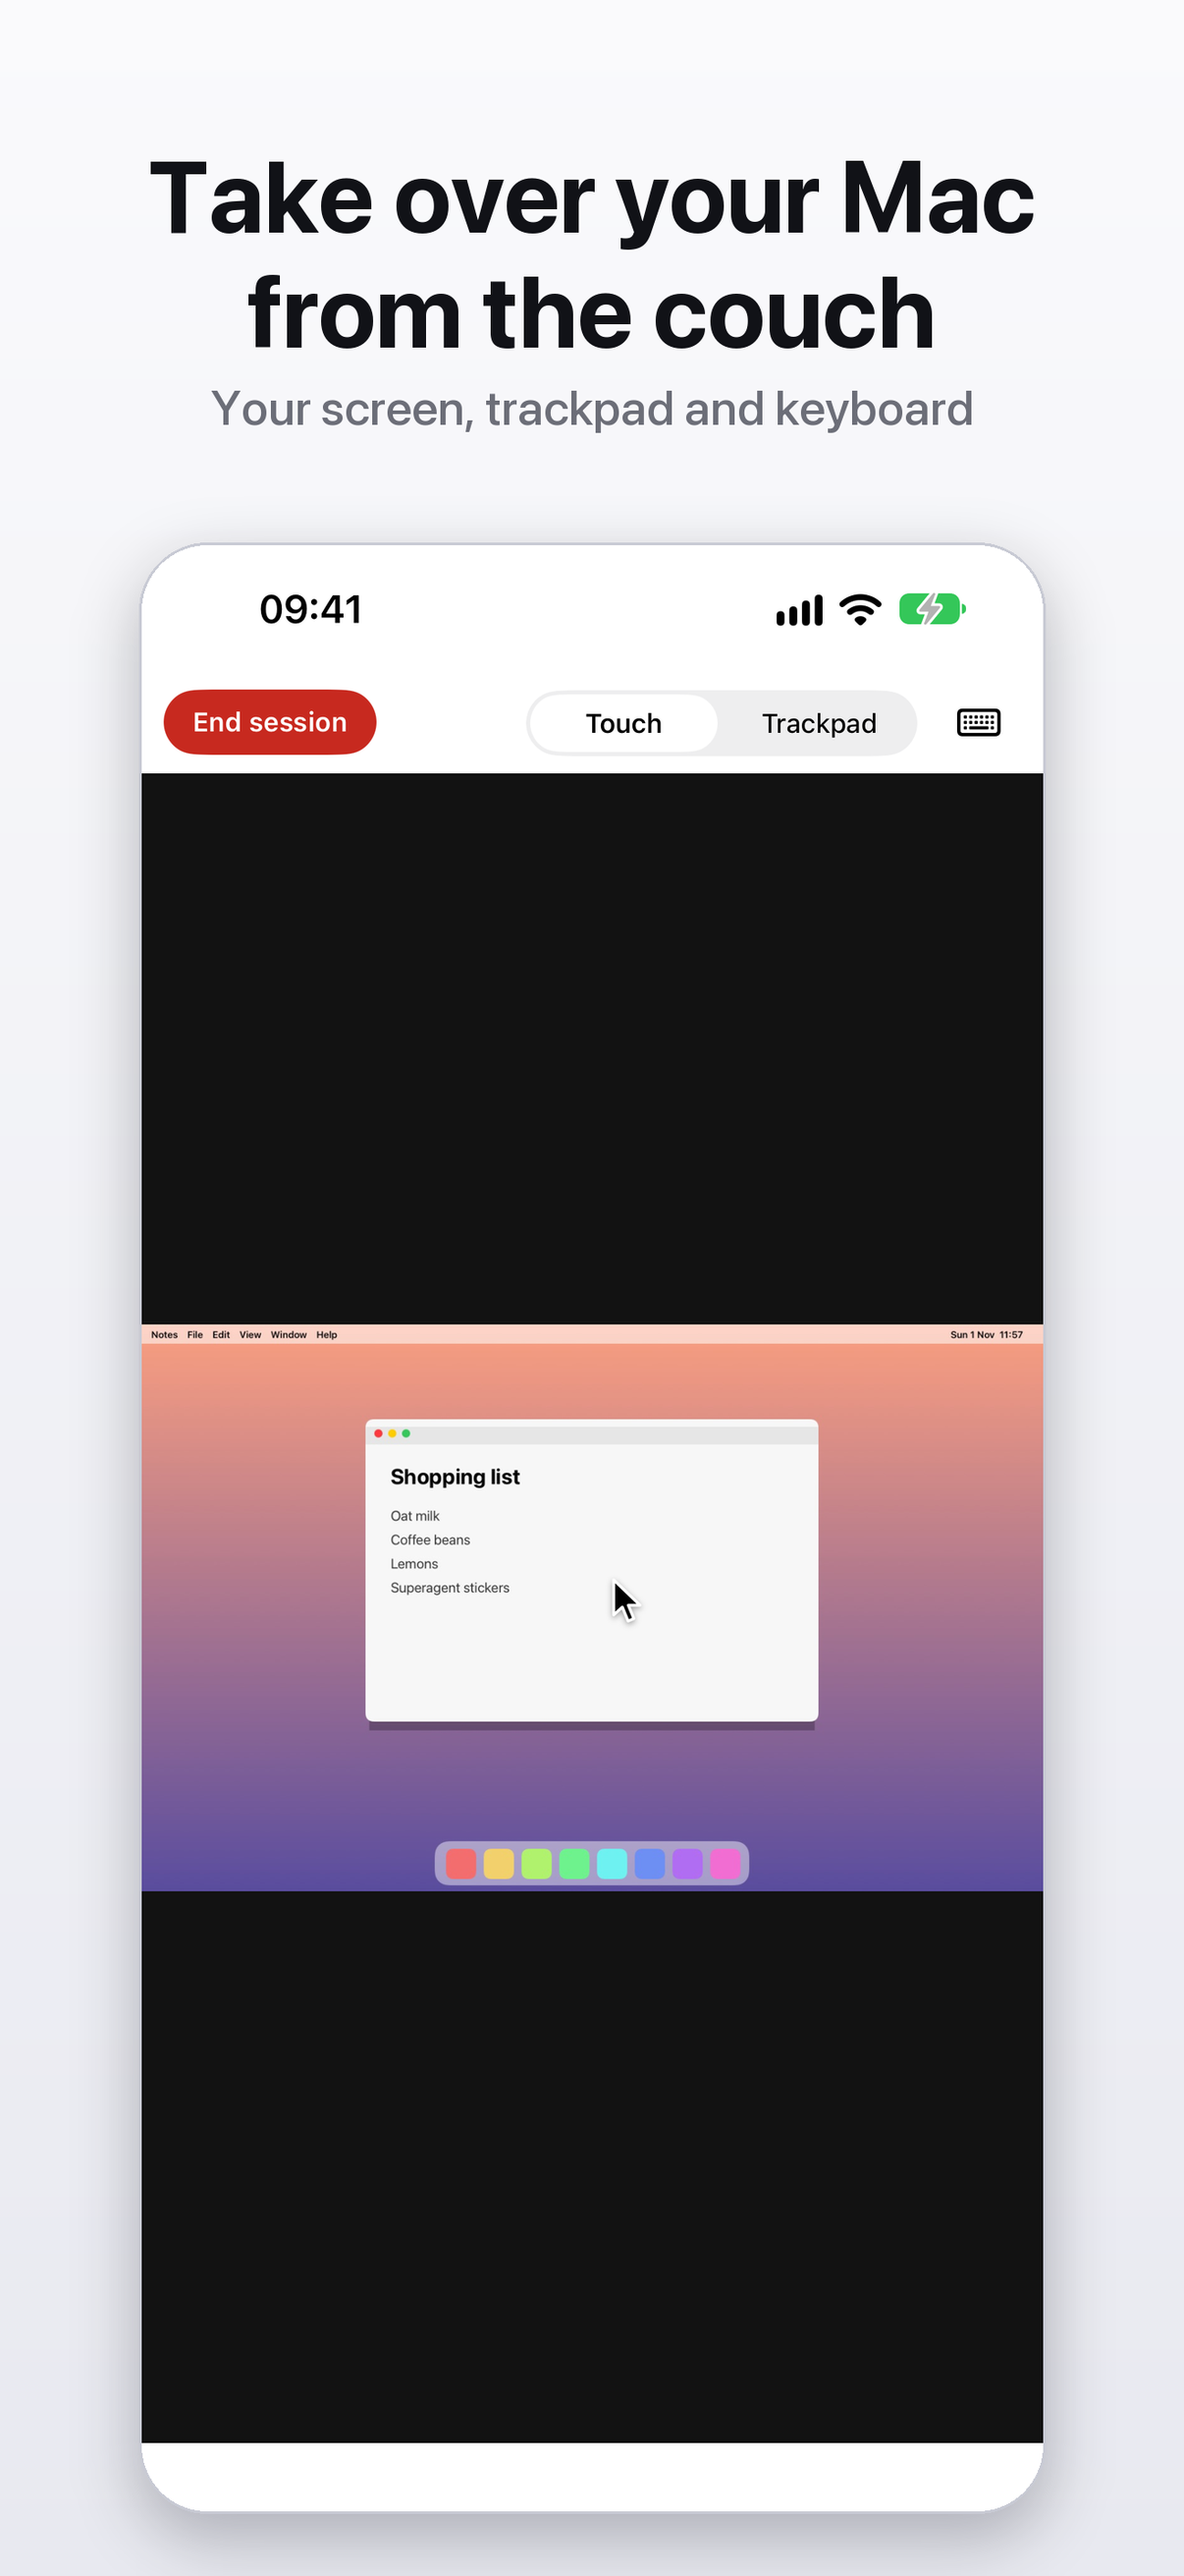
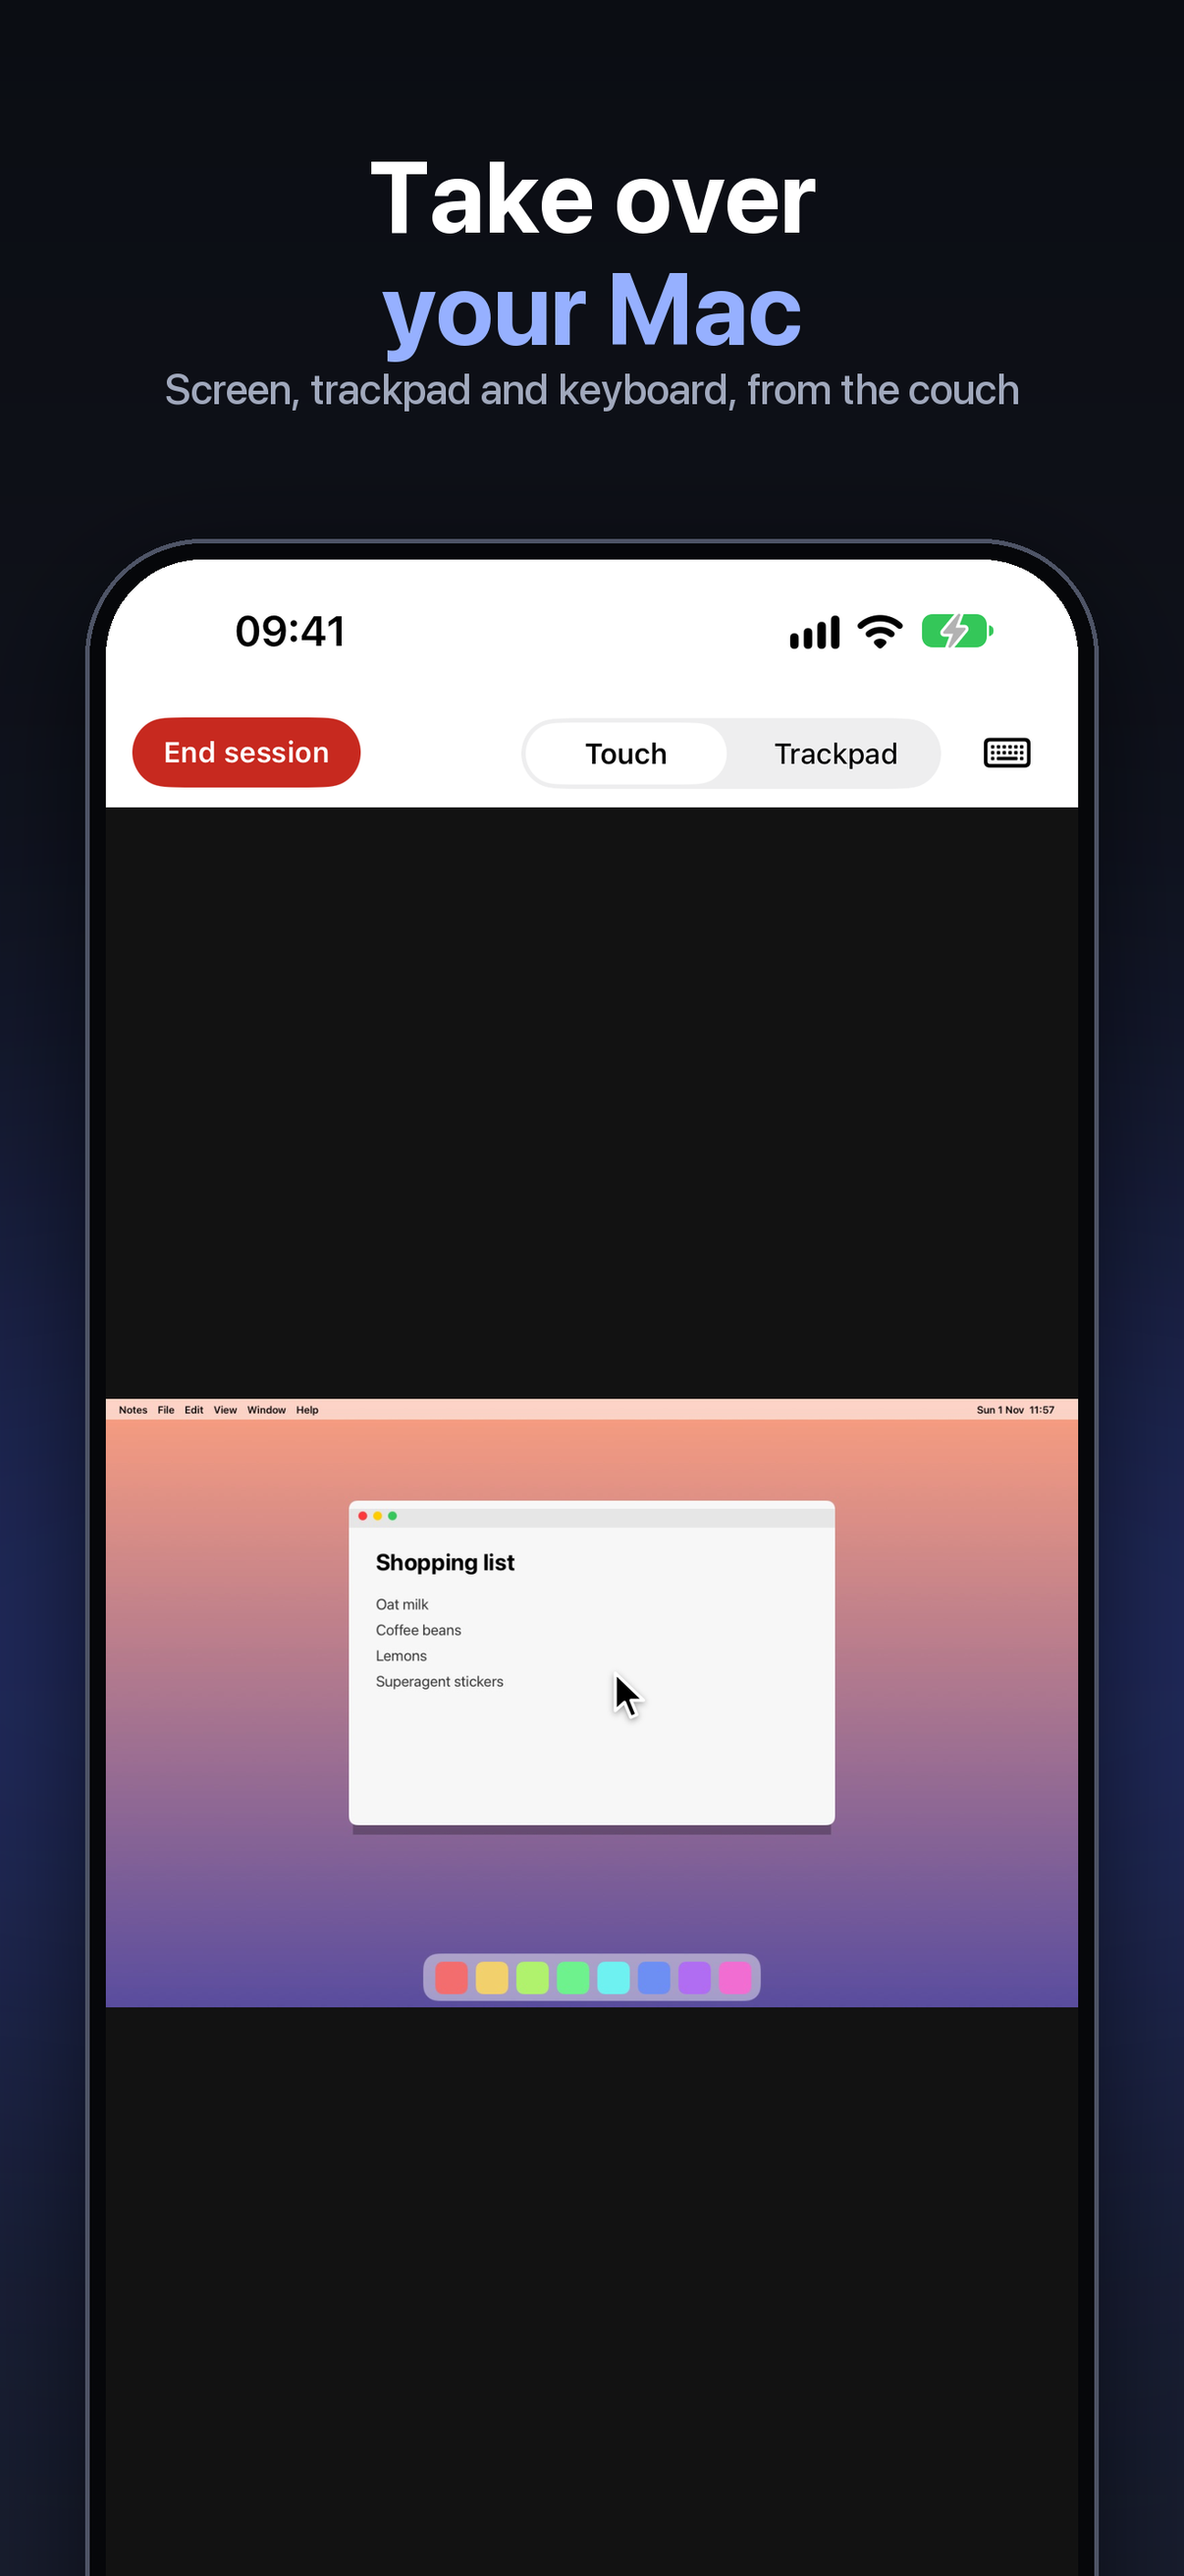
App Store artwork: dark, benefit-led screenshots, header and search-results assets

diff --git a/docs/appstore/make-screenshots.py b/docs/appstore/make-screenshots.py
@@ -1,97 +1,54 @@
 #!/usr/bin/env python3
 """
 Turn the raw simulator screenshots in screenshots/{iphone,ipad} into the App Store
-set in screenshots/store/: a headline above the screen, on a soft background.
+set in screenshots/store/: a benefit headline above a framed screen, on dark.
 
   iPhone 6.9"   1320 x 2868   (iPhone 17 Pro Max)
   iPhone 6.3"   1206 x 2622   (the same images scaled: the slot App Store Connect asks for first)
   iPad 13"      2064 x 2752   (iPad Pro 13")
 
-Run from this folder:  python3 make-screenshots.py
-The raw captures come from the simulator with the demo Mac (launch arguments in
-README.md, "Store screenshots").
+The first three are what people see in search results, so they carry the story:
+what it is, the day, and the one tap that makes it safe. Run from this folder:
+  python3 make-screenshots.py
 """
 from pathlib import Path
-from PIL import Image, ImageDraw, ImageFilter, ImageFont
+from PIL import Image
+from store_style import background, headline, paste_phone
 
 HERE = Path(__file__).parent
 RAW = HERE / "screenshots"
 OUT = RAW / "store"
-SF = "/System/Library/Fonts/SFNS.ttf"
 
 
-def font(size: int, weight: str = "Bold") -> ImageFont.FreeTypeFont:
-    f = ImageFont.truetype(SF, size)
-    f.set_variation_by_name(weight)
-    return f
-
-
-def background(w: int, h: int) -> Image.Image:
-    top, bottom = (250, 250, 252), (232, 233, 240)
-    img = Image.new("RGB", (w, h), top)
-    px = ImageDraw.Draw(img)
-    for y in range(h):
-        t = y / (h - 1)
-        px.line([(0, y), (w, y)], fill=tuple(round(top[i] + (bottom[i] - top[i]) * t) for i in range(3)))
-    return img
-
-
-def rounded(img: Image.Image, radius: int) -> Image.Image:
-    mask = Image.new("L", img.size, 0)
-    ImageDraw.Draw(mask).rounded_rectangle([0, 0, img.width - 1, img.height - 1], radius, fill=255)
-    out = img.convert("RGBA")
-    out.putalpha(mask)
-    return out
-
-
-def compose(raw: Path, title: str, sub: str, canvas: tuple[int, int], shot_w: int, name: str) -> None:
+def compose(raw, title, sub, canvas, phone_w, name, title_size, top_pad, phone_top):
     w, h = canvas
-    img = background(w, h)
-    d = ImageDraw.Draw(img)
-    scale = w / 1320
-    big, small = font(round(112 * scale)), font(round(54 * scale), "Medium")
-    y = round(150 * scale)
-    for line in title.split("\n"):
-        tw = d.textlength(line, font=big)
-        d.text(((w - tw) / 2, y), line, font=big, fill=(17, 18, 23))
-        y += round(128 * scale)
-    if sub:
-        tw = d.textlength(sub, font=small)
-        d.text(((w - tw) / 2, y + round(14 * scale)), sub, font=small, fill=(108, 110, 120))
-    shot = Image.open(raw).convert("RGB")
-    sh = round(shot.height * shot_w / shot.width)
-    shot = shot.resize((shot_w, sh), Image.LANCZOS)
-    radius = round(shot_w * 0.075)
-    x, top = (w - shot_w) // 2, h - sh - round(70 * scale)
-    shadow = Image.new("RGBA", (w, h), (0, 0, 0, 0))
-    ImageDraw.Draw(shadow).rounded_rectangle([x, top + 26, x + shot_w, top + sh + 26], radius, fill=(20, 22, 40, 70))
-    img = Image.alpha_composite(img.convert("RGBA"), shadow.filter(ImageFilter.GaussianBlur(34)))
-    card = rounded(shot, radius)
-    img.alpha_composite(card, (x, top))
-    ImageDraw.Draw(img).rounded_rectangle([x, top, x + shot_w, top + sh], radius, outline=(200, 202, 212, 255), width=3)
+    img = background(w, h, glow_at=(w // 2, phone_top + round(phone_w * 1.1)), glow_r=round(w * 0.62))
+    headline(img, title, sub, top_pad, title_size)
+    # The phone runs off the bottom edge: bigger on screen, and it reads as a real device in hand.
+    paste_phone(img, RAW / raw, (w - phone_w) // 2, phone_top, phone_w)
     OUT.mkdir(parents=True, exist_ok=True)
     img.convert("RGB").save(OUT / name, optimize=True)
 
 
 IPHONE = [
-    ("iphone/d-01-today.png", "Your whole day,\non one screen", "Calendar, to-dos and agents together", "iphone-1-today.png"),
-    ("iphone/f-chat.png", "Follow your agent\nfrom anywhere", "See every step, answer its questions", "iphone-2-chat.png"),
-    ("iphone/g-approval.png", "Approve what it asks,\nor say no", "Commands wait for your yes", "iphone-3-approve.png"),
-    ("iphone/f-chat-page.png", "See the page\nit is working on", "The Mac's browser, floating over the chat", "iphone-4-page.png"),
-    ("iphone/e-remote-active.png", "Take over your Mac\nfrom the couch", "Your screen, trackpad and keyboard", "iphone-5-remote.png"),
-    ("iphone/d-02-projects.png", "Every project\nand chat, in reach", "Pinned, recent and everything in between", "iphone-6-projects.png"),
+    ("iphone/f-chat.png", "Your coding agents,\n*in your pocket*", "Follow, answer and approve from anywhere", "iphone-1-chat.png"),
+    ("iphone/d-01-today.png", "Your whole day,\n*on one screen*", "Calendar, to-dos and agents together", "iphone-2-today.png"),
+    ("iphone/g-approval.png", "Approve with\n*one tap*", "Commands wait for your yes", "iphone-3-approve.png"),
+    ("iphone/f-chat-page.png", "Watch it work,\n*live*", "The Mac's browser floats over the chat", "iphone-4-page.png"),
+    ("iphone/e-remote-active.png", "Take over\n*your Mac*", "Screen, trackpad and keyboard, from the couch", "iphone-5-remote.png"),
+    ("iphone/d-02-projects.png", "Every project,\n*every chat*", "Pinned, recent and everything between", "iphone-6-projects.png"),
 ]
 IPAD = [
-    ("ipad/b-chat-page.png", "Your Mac's agents,\non a bigger screen", "Projects beside the conversation and the page", "ipad-1-chat.png"),
-    ("ipad/c-approval.png", "Approve what it asks,\nor say no", "Commands wait for you", "ipad-2-approve.png"),
-    ("ipad/d-remote.png", "Take over your Mac\nfrom the couch", "Your screen, trackpad and keyboard", "ipad-3-remote.png"),
+    ("ipad/b-chat-page.png", "Your Mac's agents,\n*on a bigger screen*", "Projects, the conversation and the page side by side", "ipad-1-chat.png"),
+    ("ipad/c-approval.png", "Approve with\n*one tap*", "Commands wait for your yes", "ipad-2-approve.png"),
+    ("ipad/d-remote.png", "Take over\n*your Mac*", "Screen, trackpad and keyboard, from the couch", "ipad-3-remote.png"),
 ]
 
 if __name__ == "__main__":
     for raw, title, sub, name in IPHONE:
-        compose(RAW / raw, title, sub, (1320, 2868), 1010, name)
+        compose(raw, title.replace("\\\n", "\n"), sub, (1320, 2868), 1130, name, 112, 150, 600)
     for raw, title, sub, name in IPAD:
-        compose(RAW / raw, title, sub, (2064, 2752), 1380, name)
+        compose(raw, title.replace("\\\n", "\n"), sub, (2064, 2752), 1500, name, 168, 190, 820)
     small = OUT / "iphone-6.3"
     small.mkdir(parents=True, exist_ok=True)
     for _, _, _, name in IPHONE:

diff --git a/docs/appstore/store_style.py b/docs/appstore/store_style.py
@@ -1,0 +1,87 @@
+"""Shared look for the App Store artwork: dark, one accent colour, device-framed screens."""
+from PIL import Image, ImageDraw, ImageFilter, ImageFont
+
+SF = "/System/Library/Fonts/SFNS.ttf"
+INK = (255, 255, 255)
+ACCENT = (150, 176, 255)   # the highlighted word
+MUTED = (160, 168, 188)
+GLOW = (70, 96, 255)
+
+
+def font(size, weight="Bold"):
+    f = ImageFont.truetype(SF, size)
+    f.set_variation_by_name(weight)
+    return f
+
+
+def background(w, h, glow_at=None, glow_r=None):
+    """Graphite, a little lighter toward the bottom, with a soft blue glow behind the phone."""
+    top, bottom = (11, 13, 19), (24, 29, 42)
+    img = Image.new("RGB", (w, h))
+    px = ImageDraw.Draw(img)
+    for y in range(h):
+        t = y / (h - 1)
+        px.line([(0, y), (w, y)], fill=tuple(round(a + (b - a) * t) for a, b in zip(top, bottom)))
+    img = img.convert("RGBA")
+    if glow_at:
+        gx, gy = glow_at
+        r = glow_r or round(w * 0.6)
+        blob = Image.new("RGBA", (w, h), (0, 0, 0, 0))
+        ImageDraw.Draw(blob).ellipse([gx - r, gy - r, gx + r, gy + r], fill=GLOW + (95,))
+        img.alpha_composite(blob.filter(ImageFilter.GaussianBlur(round(r * 0.55))))
+    return img
+
+
+def framed_phone(path, width, bezel=None):
+    """The screen with a dark bezel and a thin lit edge, like the device."""
+    shot = Image.open(path).convert("RGB")
+    bezel = bezel or max(10, round(width * 0.02))
+    inner_w = width - 2 * bezel
+    inner_h = round(shot.height * inner_w / shot.width)
+    shot = shot.resize((inner_w, inner_h), Image.LANCZOS)
+    w, h = width, inner_h + 2 * bezel
+    outer_r = round(width * 0.115)
+    inner_r = outer_r - bezel
+    card = Image.new("RGBA", (w, h), (0, 0, 0, 0))
+    d = ImageDraw.Draw(card)
+    d.rounded_rectangle([0, 0, w - 1, h - 1], outer_r, fill=(6, 7, 10, 255), outline=(78, 84, 102, 255), width=max(3, bezel // 4))
+    mask = Image.new("L", shot.size, 0)
+    ImageDraw.Draw(mask).rounded_rectangle([0, 0, shot.width - 1, shot.height - 1], inner_r, fill=255)
+    screen = shot.convert("RGBA")
+    screen.putalpha(mask)
+    card.alpha_composite(screen, (bezel, bezel))
+    return card, outer_r
+
+
+def paste_phone(canvas, path, x, y, width, shadow=True):
+    card, r = framed_phone(path, width)
+    if shadow:
+        sh = Image.new("RGBA", canvas.size, (0, 0, 0, 0))
+        ImageDraw.Draw(sh).rounded_rectangle([x, y + 40, x + card.width, y + card.height + 40], r, fill=(0, 0, 0, 150))
+        canvas.alpha_composite(sh.filter(ImageFilter.GaussianBlur(60)))
+    canvas.alpha_composite(card, (x, y))
+    return card
+
+
+def headline(canvas, title, sub, y, size, sub_size=None, align="center", x=None):
+    """Title lines; a word between *stars* is the accent colour. Returns the y below the block."""
+    d = ImageDraw.Draw(canvas)
+    big = font(size)
+    small = font(sub_size or round(size * 0.42), "Medium")
+    w = canvas.width
+    gap = round(size * 1.12)
+    for line in title.split("\n"):
+        parts = line.split("*")
+        segs = [(t, ACCENT if i % 2 else INK) for i, t in enumerate(parts) if t]
+        total = sum(d.textlength(t, font=big) for t, _ in segs)
+        cx = x if (align == "left" and x is not None) else (w - total) / 2
+        for t, c in segs:
+            d.text((cx, y), t, font=big, fill=c)
+            cx += d.textlength(t, font=big)
+        y += gap
+    if sub:
+        tw = d.textlength(sub, font=small)
+        sx = x if (align == "left" and x is not None) else (w - tw) / 2
+        d.text((sx, y + round(size * 0.04)), sub, font=small, fill=MUTED)
+        y += round((sub_size or size * 0.42) * 1.5)
+    return y

diff --git a/docs/appstore/make-header-assets.py b/docs/appstore/make-header-assets.py
@@ -1,0 +1,63 @@
+#!/usr/bin/env python3
+"""
+The product page artwork App Store Connect asks for besides screenshots, in the
+same look as make-screenshots.py (run that first for the folders):
+
+  Header          3840 x 1646   (also accepted: 5244 x 2950)
+  Search results  3840 x 2560   (also accepted: 1920 x 1280, 5244 x 2950)
+
+Output: screenshots/store/header.png and search-results.png.
+Keep the important parts in the middle: the header is cropped differently on
+different devices and orientations.
+"""
+from pathlib import Path
+from PIL import Image, ImageDraw
+from store_style import ACCENT, INK, MUTED, background, font, headline, paste_phone
+
+HERE = Path(__file__).parent
+RAW = HERE / "screenshots"
+OUT = RAW / "store"
+ICON = HERE.parent.parent / "SuperAgent/Resources/Assets.xcassets/AppIcon.appiconset/AppIcon.png"
+
+
+def icon(size):
+    ic = Image.open(ICON).convert("RGBA").resize((size, size), Image.LANCZOS)
+    mask = Image.new("L", (size, size), 0)
+    ImageDraw.Draw(mask).rounded_rectangle([0, 0, size - 1, size - 1], round(size * 0.225), fill=255)
+    ic.putalpha(mask)
+    return ic
+
+
+def header():
+    w, h = 3840, 1646
+    img = background(w, h, glow_at=(2900, 900), glow_r=1100)
+    img.alpha_composite(icon(190), (640, 330))
+    headline(img, "Your coding agents,\n*in your pocket*", "Follow, answer and approve from your iPhone.", 590, 170, 68, align="left", x=640)
+    # Two screens, cropped by the bottom edge, on the right of the middle.
+    paste_phone(img, RAW / "iphone/d-01-today.png", 2350, 210, 680)
+    paste_phone(img, RAW / "iphone/f-chat.png", 2900, 120, 720)
+    OUT.mkdir(parents=True, exist_ok=True)
+    img.convert("RGB").save(OUT / "header.png", optimize=True)
+
+
+def search_results():
+    w, h = 3840, 2560
+    img = background(w, h, glow_at=(w // 2, 1700), glow_r=1500)
+    ic = icon(250)
+    img.alpha_composite(ic, ((w - 250) // 2, 150))
+    headline(img, "Superagent", None, 470, 220)
+    d = ImageDraw.Draw(img)
+    sub = "Your Mac's coding agents, in your pocket"
+    f = font(84, "Medium")
+    d.text(((w - d.textlength(sub, font=f)) / 2, 740), sub, font=f, fill=MUTED)
+    paste_phone(img, RAW / "iphone/g-approval.png", 560, 1010, 760)
+    paste_phone(img, RAW / "iphone/d-01-today.png", 1530, 930, 780)
+    paste_phone(img, RAW / "iphone/f-chat.png", 2520, 1010, 760)
+    OUT.mkdir(parents=True, exist_ok=True)
+    img.convert("RGB").save(OUT / "search-results.png", optimize=True)
+
+
+if __name__ == "__main__":
+    header()
+    search_results()
+    print("wrote", OUT / "header.png", "and", OUT / "search-results.png")
